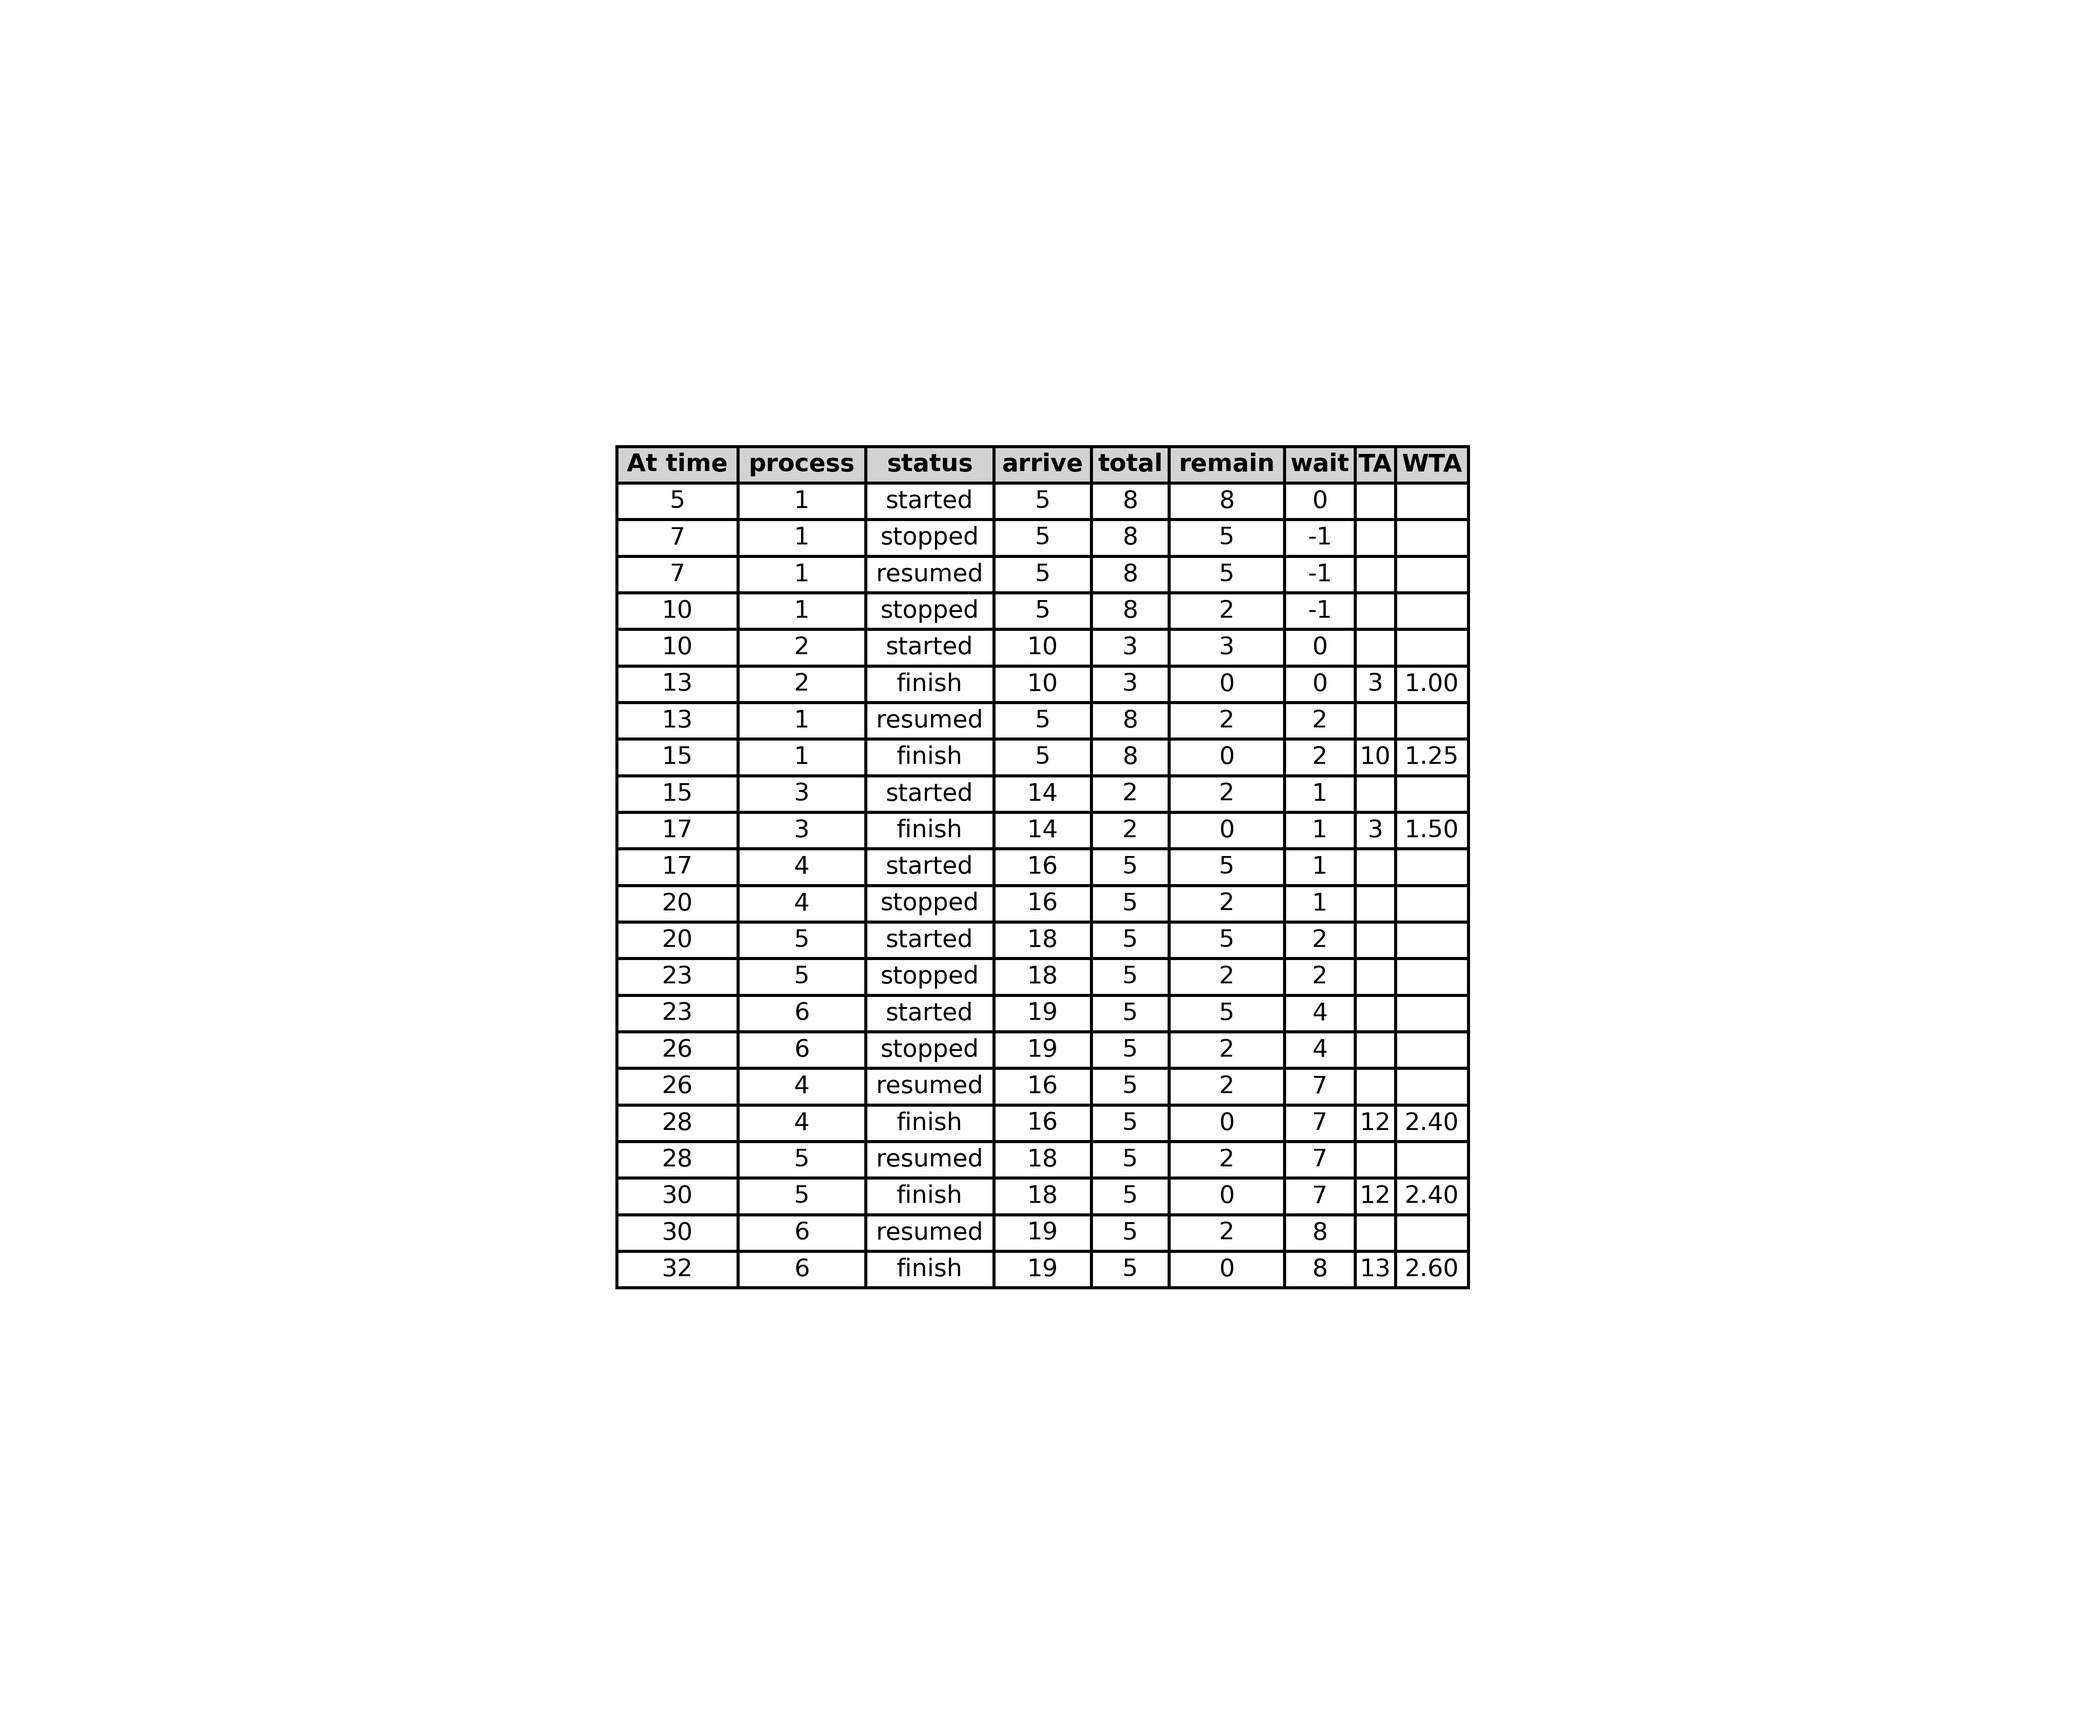
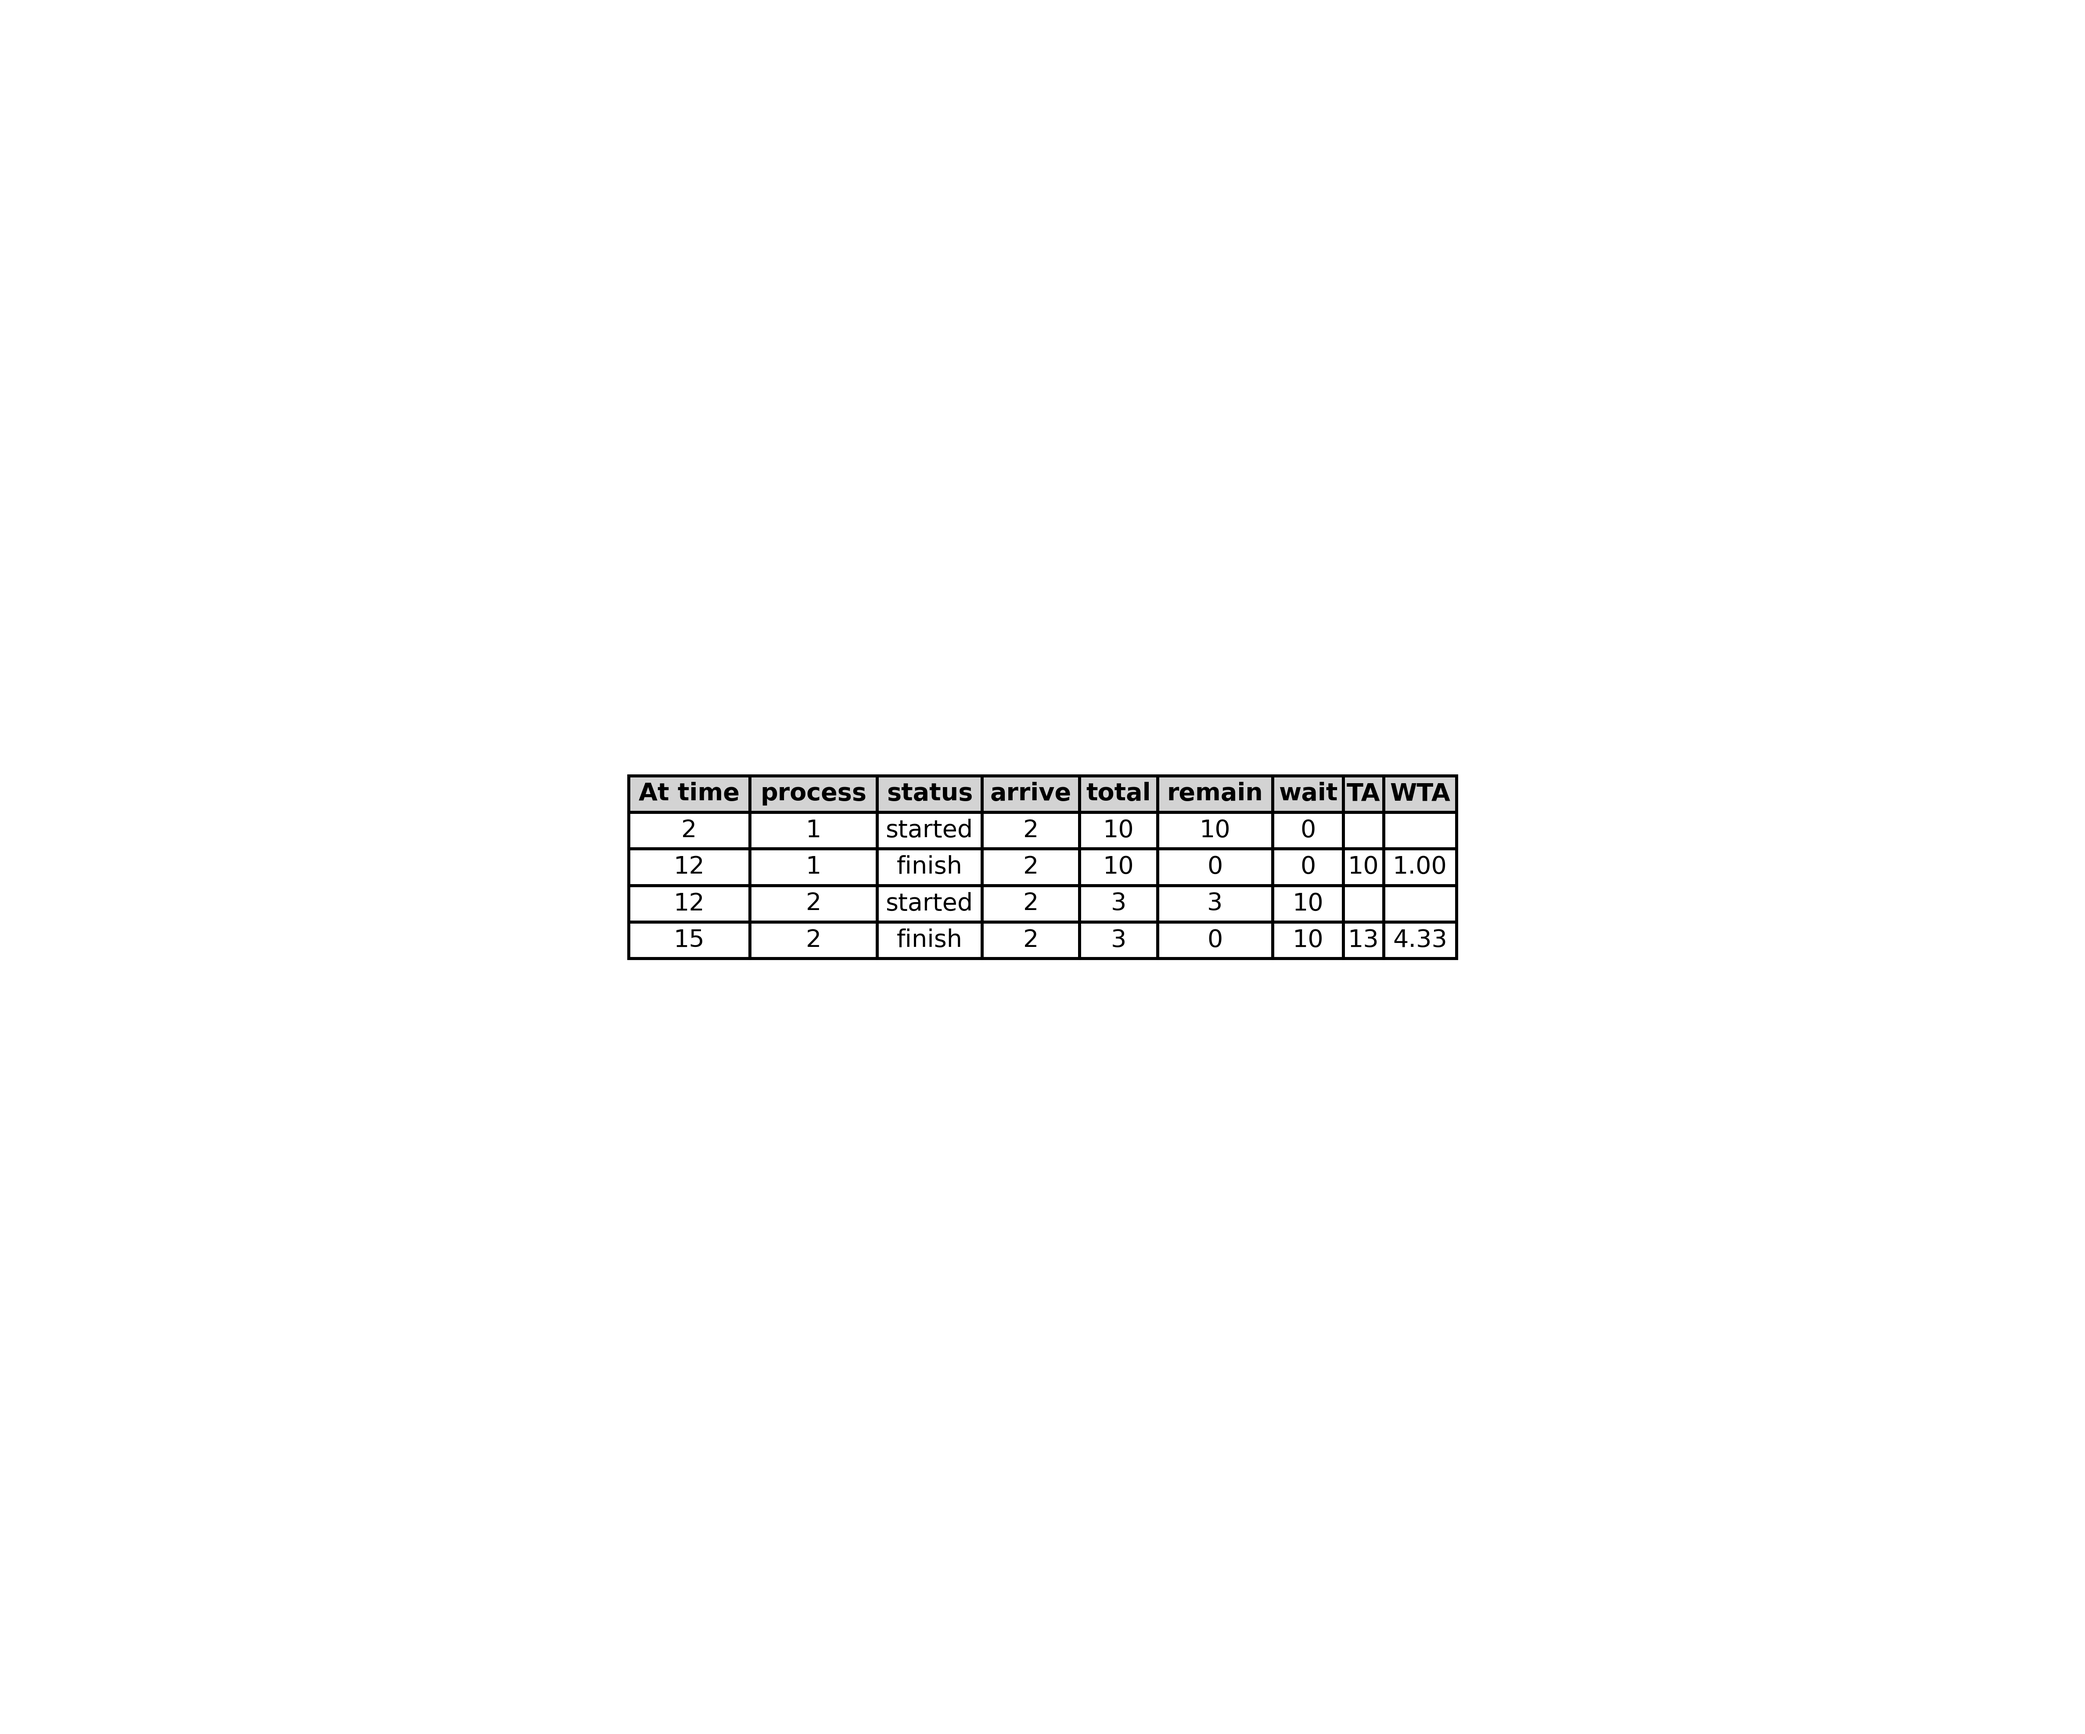
fix RR & STRN

Changed region(s): [[0.2804, 0.2491, 0.7166, 0.7473]]

diff --git a/Phase1/scheduler.c b/Phase1/scheduler.c
@@ -56,6 +56,7 @@ void images(){
         execlp("python3", "python3", "converter.py", NULL);
         exit(EXIT_FAILURE);
     }
+    wait(NULL);
 }
 int main(int argc, char *argv[]) {
     
@@ -89,14 +90,14 @@ int main(int argc, char *argv[]) {
     }
     fclose(outputFilePointer);
 
+    images();
     sleep(5);
-    //destroyClk(false);
+    destroyClk(false);
     printf("\n-------------------------------------------------------\n");
     printf("\n-------------------------------------------------------\n");
     printf("\n\t\t\tscheduer finished\n");
     printf("\n-------------------------------------------------------\n");
     printf("\n-------------------------------------------------------\n");
-    //images();
     return 0;
 }
 void process_terminated(int signum){
@@ -124,8 +125,11 @@ void rr_start(int quantum){
                 next_time++;
                 if(running_process!=NULL){
                     running_process->remaining_time--;
+                    if(running_process->remaining_time<0){
+                       running_process->remaining_time = 0; 
+                    }
                     printf("remaing time of process:%d is %d\n",running_process->id,running_process->remaining_time);
-                    if(running_process->remaining_time==0){
+                    if(running_process->remaining_time<=0){
                         pick_new_process=quantum;
                     }else
                     pick_new_process++;
@@ -394,6 +398,9 @@ void strn_start() {
             next_time++;
             if (running_process != NULL) {
                 running_process->remaining_time--;
+                 if(running_process->remaining_time<0){
+                       running_process->remaining_time = 0; 
+                    }
                 printf("remaining time of process:%d is %d\n", running_process->id, running_process->remaining_time);
             }
             else {

diff --git a/Phase1/GUI.c b/Phase1/GUI.c
@@ -6,6 +6,7 @@
 #include <signal.h>
 #include <sys/shm.h>
 
+#define SHM_SIZE 1024  
 #define FILENAME "file.txt"
 
 // Global variables for widgets
@@ -20,7 +21,6 @@ GtkWidget *pathLabel;
 GtkWidget *fixed;
 pid_t pid;
 int shmid;
-#define SHM_SIZE 1024  
 
 char* reader() {
     void *shmaddr = shmat(shmid, NULL, 0);
@@ -84,8 +84,8 @@ void images(){
 gboolean showButton(gpointer data) {
     
     if(reader()[0] == '1'){
+        //images();
         gtk_widget_set_sensitive(submit, TRUE);
-        images();
     }
         
     // Return TRUE to keep the timeout function running
@@ -131,6 +131,7 @@ void submit_handler(GtkWidget *widget, gpointer data) {
     gdouble timeSliceValue = gtk_range_get_value(GTK_RANGE(timeSliceSlider));
     //begin();
     // Hide the submit button while processing
+    //images();
     gtk_widget_set_sensitive(submit, FALSE);
 
     // Convert algorithm option and path text to strings

diff --git a/Phase1/process_generator.c b/Phase1/process_generator.c
@@ -1,11 +1,11 @@
 #include "headers.h"
 #include<string.h>
 #define FILENAME "file.txt"
+#define SHM_SIZE 1024  
 
 int q_id;
 struct Queue processQueue;
-
-#define SHM_SIZE 1024  
+int shmid;
 
 void writer(int shmid) {
     void *shmaddr = shmat(shmid, NULL, 0);
@@ -23,6 +23,8 @@ void clearResources(int signum)
     msgctl(q_id, IPC_RMID, (struct msqid_ds *)0);
     destroyQueue(&processQueue);
     //TODO: clear shm
+    shmdt(shmaddr);
+    shmctl(shmid, IPC_RMID, (struct shmid_ds *)0);
     kill(0, SIGINT);
     exit(0);
 }
@@ -152,7 +154,6 @@ int main(int argc, char * argv[])
     printf("sbye\n");
     // 7. Clear queue resources
     destroyQueue(&processQueue);
-    int shmid;
     key_t key = 50;  // Generate a key for the shared memory segment
     shmid = shmget(key, 4096, IPC_CREAT | 0666);
     // Create a shared memory segment

diff --git a/Phase1/converter.py b/Phase1/converter.py
@@ -95,6 +95,7 @@ def plot_dataframe_as_table(df, image_path, dpi=500, font_size=8, font_family='A
     
     table.set_fontsize(font_size)
     plt.savefig(image_path, bbox_inches='tight', pad_inches=0.1, dpi=dpi)
+    plt.show();
 
 if __name__ == "__main__":
     # File paths
